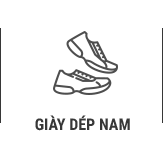
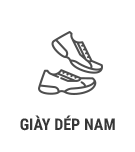
add border

diff --git a/index.html b/index.html
@@ -49,7 +49,7 @@
 			</div><!-- /.navbar-collapse -->
 		</div>
 	</nav>
-	<div class="nav-main" role="navigation">
+	<div class="nav-main" role="navigation" id="main-menu">
 		<div class="container">
 			<ul>
 				<li><a href="/"><img src="images/menu_01.png" alt="" class="ATmenuitem"></a></li>
@@ -128,13 +128,13 @@
 		</div>
 
 		<div class="row">
-			<div class="col-xs-4 col-sm-4 col-md-4 col-lg-4">
+			<div class="col-xs-4 col-sm-4 col-md-4 col-lg-4" style="max-height: 450px; overflow: hidden;">
 				<img src="images/img_02.gif" alt="" style="width:100%; height: auto;">
 			</div>
 			<div class="col-xs-8 col-sm-8 col-md-8 col-lg-8">
 				<div class="row">
 					<div class="col-xs-12 col-sm-12 col-md-12 col-lg-12">
-						<img src="images/img_03.gif" alt="" style="padding-bottom:20px; width:100%;">
+						<img src="images/img_03.gif" alt="" style="padding-bottom:30px; width:100%;">
 					</div>
 				</div>
 				<div class="row">
@@ -153,11 +153,13 @@
 			</div>
 		</div>
 		<div class="row">
-			<div class="col-xs-6 col-sm-6 col-md-6 col-lg-6 text-right">
-				<h4>Sản phẩm nổi bật</h4>
-			</div>
-			<div class="col-xs-6 col-sm-6 col-md-6 col-lg-6 text-left">
-				<h4>Sản phẩm mới</h4>
+			<div class="ATlist-menu" role="navigation">
+				<div class="container">
+					<ul>
+						<li><a href="/">Sản phẩm mới</a></li>
+						<li><a href="/">Sản phẩm nổi bật</a></li>
+					</ul>
+				</div>
 			</div>
 		</div>
 		<div class="row">

diff --git a/css/app.css b/css/app.css
@@ -1,3 +1,28 @@
+.ATlist-menu ul{
+	display:table;
+	border-collapse:collapse;
+	width:100%;
+	margin:0;
+	padding:0;
+	list-style:none;
+}
+.ATlist-menu li {
+	display:table-cell;
+	width:1%;
+	vertical-align:middle;
+	text-align:center;
+}
+.ATlist-menu a {
+    display: block;
+    padding: 15px 10px;
+    color: #000;
+    font-size:larger;
+    text-decoration: none;
+}
+.ATlist-menu a:hover {
+    background: url(../images/border.png) center bottom no-repeat;
+}
+
 .nav-main ul {
 	display:table;
 	border-collapse:collapse;
@@ -24,14 +49,14 @@
 .nav-main a:focus {
 	outline:none;
 	color:#000;
-	background:#efefef;
+	background:#e4e4e4;
 }
 .nav-main.active li:hover {
 	cursor:pointer;
 }
 .nav-main.active li:hover,
 .nav-main.active li.focus {
-	background:#efefef;
+	background:#e4e4e4;
 }
 .ATmenuitem{
 	max-height:100px;
@@ -57,8 +82,17 @@
     font-weight: 600;
     margin:20px;
 }
+.ATViewMore:hover {
+    font-size: large;
+    color: #ffffff;
+    background-color: rgba(79, 79, 79, 0.7);
+    text-decoration: none;
+}
 .ATStore{
     background-image: url(../images/img_11.gif);
     height: 250px;
     background-position-y: center;
+}
+#main-menu{
+	background:#efefef;
 }
